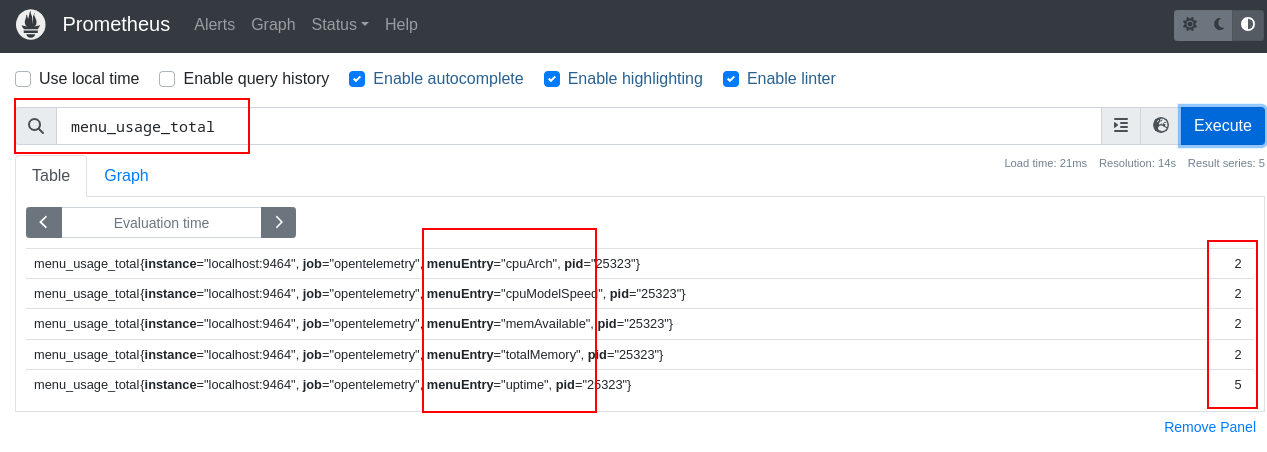
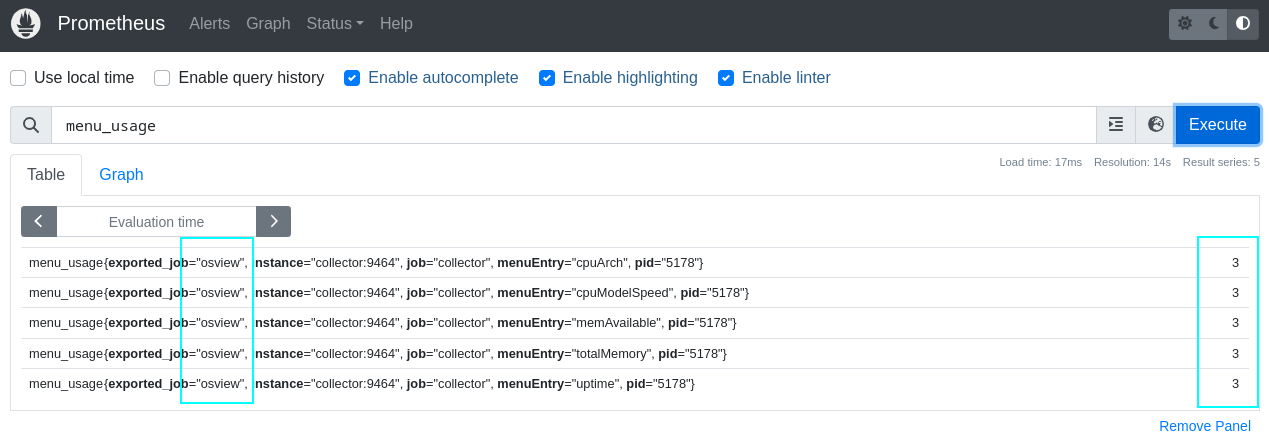
fix: Adds the missing metrics information
It was confusing because it looks like otelcol + prometheus
configuration, but the reality is that we need to use OTEL-JS resources
and OTEL-JS SemanticConventions to fix that.

This should be documented here https://github.com/open-telemetry/opentelemetry-js/tree/main/packages/sdk-metrics#usage

Related to https://github.com/obs-nebula/osview/issues/18

Changed region(s): [[0.0, 0.1467, 1.0, 0.9684], [0.0, 0.0, 0.3386, 0.088], [0.9234, 0.0, 1.0, 0.088]]

diff --git a/src/ManualMetrics.ts b/src/ManualMetrics.ts
@@ -1,4 +1,6 @@
 import { Counter } from '@opentelemetry/api';
+import { Resource } from '@opentelemetry/resources';
+import { SemanticResourceAttributes } from '@opentelemetry/semantic-conventions';
 import {
   MeterProvider,
   PeriodicExportingMetricReader,
@@ -8,8 +10,11 @@ import { OTLPMetricExporter } from '@opentelemetry/exporter-metrics-otlp-proto';
 export default class ManualMetrics {
   menuActionCounter: Counter;
   constructor() {
+    const resource = new Resource({
+      [SemanticResourceAttributes.SERVICE_NAME]: process.env.npm_package_name,
+    });
     const metricsExporter = new OTLPMetricExporter();
-    const meterProvider = new MeterProvider();
+    const meterProvider = new MeterProvider({ resource: resource });
     meterProvider.addMetricReader(
       new PeriodicExportingMetricReader({ exporter: metricsExporter })
     );

diff --git a/README.md b/README.md
@@ -2,7 +2,7 @@
 
 > OTEL-JS packages in use:
 
-| Package | Why |
+| Package | |
 | ----------- | ----------- |
 | @opentelemetry/exporter-trace-otlp-http | To export to OTEL collector via OTLP/HTTP |
 | @opentelemetry/resources | To be used with `semantic-conventions` to identify the application/service's name |
@@ -12,20 +12,21 @@
 | @opentelemetry/sdk-metrics | For manual instrumentation |
 | @opentelemetry/exporter-metrics-otlp-proto | To export the metrics using the OTEL collector |
 
-Open a terminal and
+Open a terminal and run
+
 ```
 docker-compose up
 ```
 
-Open other terminal and
-```console
+Open other terminal and run
+
+```shell
 npm install
 npm run build
-
-npm start or npm install -g .
+npm start
 ```
 
-```console
+```shell
 ➜  osview git:(main) ✗ osview
 
   ----------------------------------------
@@ -55,14 +56,13 @@ Total memory: 31804 MB
 Bye
 ```
 
-### Traces
+After selecting some options from the menu you can access Jaeger and Prometheus
+to see both traces and metrics.
 
 ![01](img/1.png)
 
 ![02](img/2.png)
 
-### Metrics
+Each menu option was selected 3 times
 
-
-
-![02](img/3.png)
+![03](img/3.png)
